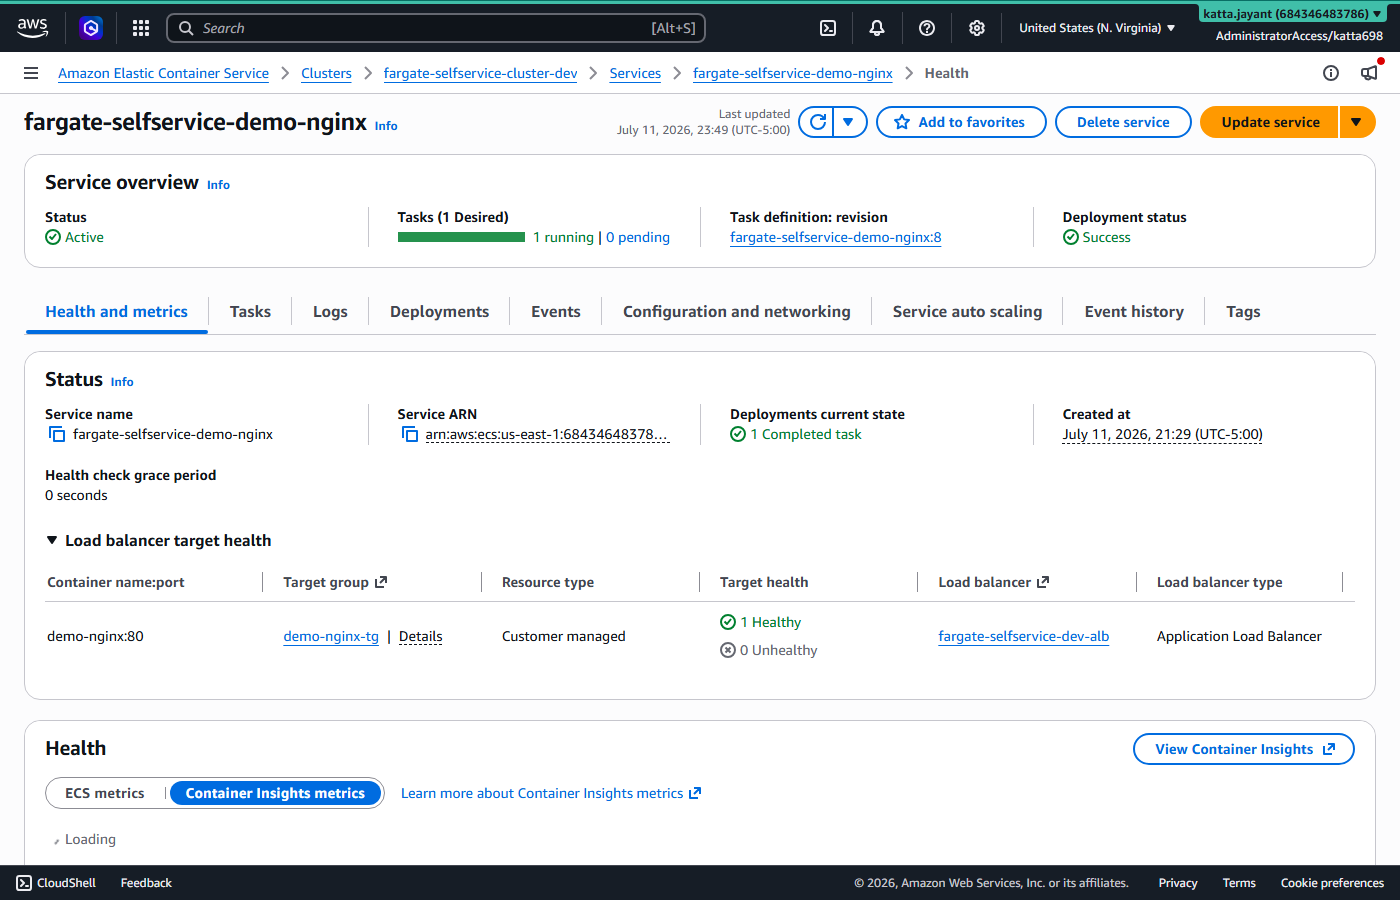
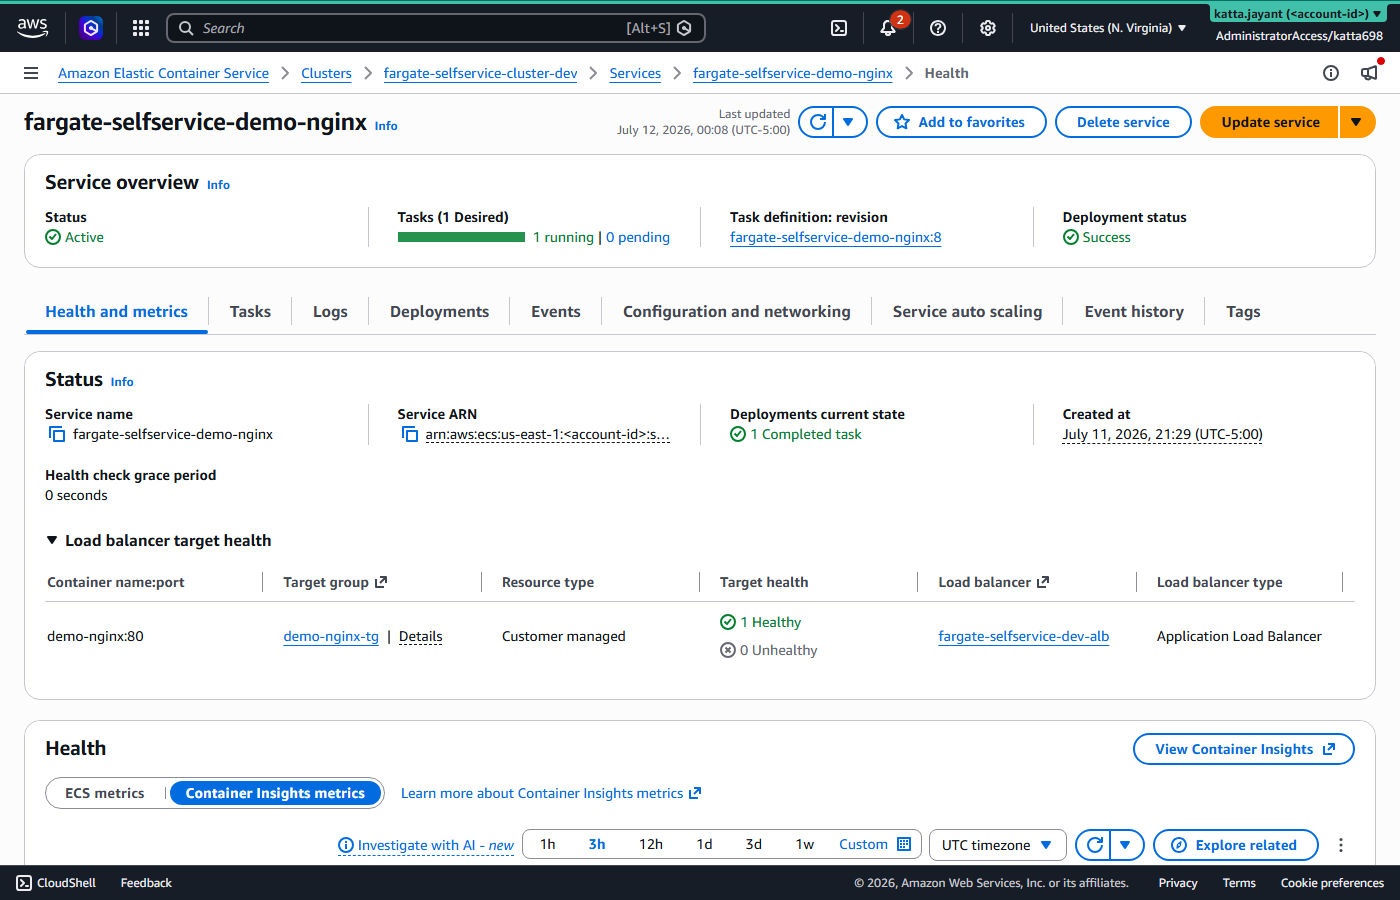
Redact AWS account ID from Console screenshots before publishing
Found the real account ID visible in 3 committed screenshots (top-right
account badge, and inside ARN strings) - same rule this project
already enforces for READMEs (never expose the account ID publicly),
just not yet applied to screenshots.

Added automatic redaction to capture.py: for any console.aws.amazon.com
URL, walks the DOM and replaces every occurrence of the real account ID
(resolved via `aws sts get-caller-identity`) with <account-id> before
the screenshot is taken. Catches it everywhere it appears in the page
text, not just one known location, so it's robust across different
console pages.

Re-captured all 3 affected screenshots with the fix applied.

diff --git a/scripts/screenshots/capture.py b/scripts/screenshots/capture.py
@@ -25,12 +25,46 @@ Examples:
     python capture.py "https://app.terraform.io/app/katta/workspaces/week-09-dev/runs" out.png
 """
 import argparse
+import subprocess
 from pathlib import Path
 
 from playwright.sync_api import sync_playwright
 
 REPO_ROOT = Path(__file__).resolve().parents[2]  # .../AWS-Platform-Engineering-Lab
 PROFILE_DIR = REPO_ROOT / "playwright_profile"
+
+
+def get_aws_account_id() -> str | None:
+    try:
+        result = subprocess.run(
+            ["aws", "sts", "get-caller-identity", "--query", "Account", "--output", "text"],
+            capture_output=True, text=True, timeout=10,
+        )
+        account_id = result.stdout.strip()
+        return account_id if account_id else None
+    except Exception:
+        return None
+
+
+def redact_account_id(page, account_id: str) -> None:
+    # AWS Console shows the account ID in the top-right account badge on
+    # every page. Blog posts are public - same rule as READMEs never
+    # including the account ID. Found exposed on 3 real screenshots,
+    # 2026-07-12 (03-ecs-cluster, 07-step-functions-execution,
+    # 08-ecs-service-running) before this redaction existed.
+    # DOM text replacement (not pixel-coordinate cropping) so this works
+    # regardless of which console page or layout is being captured.
+    page.evaluate(f"""
+        () => {{
+            const walker = document.createTreeWalker(document.body, NodeFilter.SHOW_TEXT);
+            let node;
+            while (node = walker.nextNode()) {{
+                if (node.textContent.includes('{account_id}')) {{
+                    node.textContent = node.textContent.replaceAll('{account_id}', '<account-id>');
+                }}
+            }}
+        }}
+    """)
 
 
 def capture(url: str, output_path: Path, wait_selector: str | None, wait_ms: int | None,
@@ -70,6 +104,14 @@ def capture(url: str, output_path: Path, wait_selector: str | None, wait_ms: int
             page.wait_for_selector(wait_selector, timeout=15000)
         if wait_ms:
             page.wait_for_timeout(wait_ms)
+
+        if "console.aws.amazon.com" in url or "signin.aws.amazon.com" in url:
+            account_id = get_aws_account_id()
+            if account_id:
+                redact_account_id(page, account_id)
+                print(f"Redacted account ID from page text before capture")
+            else:
+                print("WARNING: could not resolve AWS account ID to redact - check manually before publishing")
 
         # full_page=False (viewport-only, 1400x900) is the deliberate choice
         # here, not full_page=True - SPA pages (AWS Console especially) often
